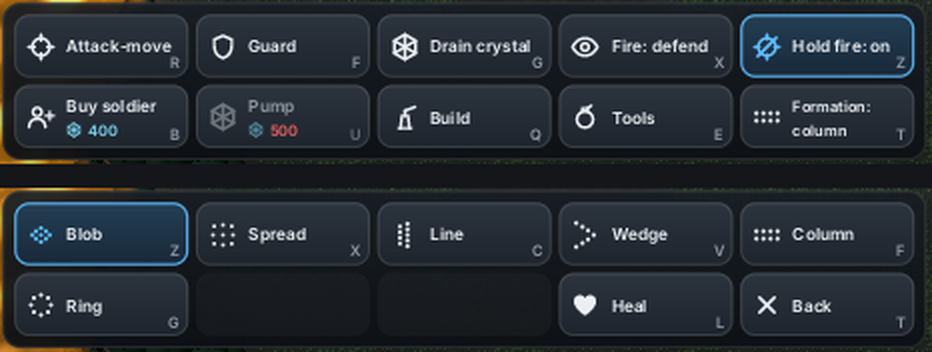
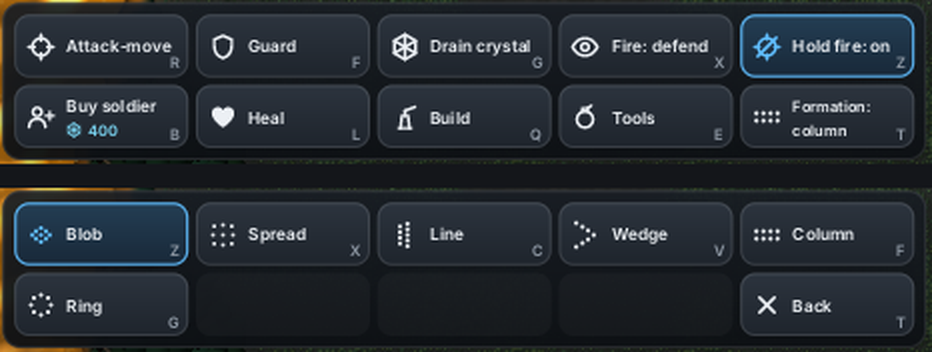
Squad: Heal back on the main card in Pump's slot (Pump on the Build page)
Scott 06:14Z: "heal is in formation?" Heal takes Pump's (1, 1) in the
squad mode; Pump stays one key away on the Build page (Q, U). The
Formation page holds only formations and Back.

Claude-Session: https://claude.ai/code/session_01TFcbG7BwQKEVXj5ZSmFTzB

Changed region(s): [[0.5912, 0.75, 0.809, 0.9688], [0.2178, 0.2812, 0.3423, 0.4062], [0.3734, 0.375, 0.4045, 0.4062]]

diff --git a/src/bin/larder-world/draw.rs b/src/bin/larder-world/draw.rs
@@ -1578,6 +1578,8 @@ impl App {
                 about: "A new soldier at the larder.".into(),
                 ..Command::new(BUY, (1, 0), Icon::Recruit, "Buy a soldier", KeyCode::KeyB)
             },
+            // Pump's main-card slot is Heal's in the squad mode (below,
+            // 2026-11-21); there Pump is on the Build page only.
             pump((1, 1)),
             Command { about: "Turrets, pumps, walls, lures and sirens.".into(), ..Command::new(BUILD_PAGE, at((1, 3), (1, 2)), Icon::Turret, "Build", KeyCode::KeyQ) },
             Command {
@@ -1588,9 +1590,14 @@ impl App {
         // The squad mode's Hold fire and Formation (owner 2026-11-21
         // 05:04Z). Hold fire takes Heal's (0, 4), beside the fire button;
         // Formation takes the Lookouts' (1, 4), which went with the
-        // lookouts, and opens the Formation page, where Heal now is (its
-        // L still heals from this page, `squadmode::HEAL_KEY`).
+        // lookouts, and opens the Formation page.
         if squads {
+            // Heal back on the main card in Pump's (1, 1); Pump stays on the
+            // Build page (Q, then U). A night on the Formation page read as
+            // an odd fit (owner 06:14Z: "heal is in formation?").
+            cmds.retain(|c| c.id != PUMP);
+            let heal_off = g.active.map_or(no_sel(), |a| super::squadmode::heal_off(g, a));
+            cmds.push(Command { ready: heal_off.is_none(), why_not: heal_off, about: "The squad stops where it is and heals, paying food from the bank: fast by a crystal you hold, slow elsewhere. Any order ends it.".into(), ..Command::new(HEAL_ORDER, (1, 1), Icon::Heart, "Heal", super::squadmode::HEAL_KEY) });
             cmds.push(Command {
                 ready: any,
                 on: held,
@@ -1602,7 +1609,7 @@ impl App {
             cmds.push(Command {
                 ready: f.is_some(),
                 why_not: no_sel(),
-                about: format!("How the squad stands and walks: blob, spread, line, wedge, column or ring (now {}). Opens the formation page; Heal is there too.", f.map_or("none", |f| f.name())),
+                about: format!("How the squad stands and walks: blob, spread, line, wedge, column or ring (now {}). Opens the formation page.", f.map_or("none", |f| f.name())),
                 ..Command::new(FORM_PAGE, (1, 4), f.map_or(Icon::Formation, form_icon), &f.map_or("Formation".to_string(), |f| format!("Formation: {}", f.name())), super::squadmode::FORMATION)
             });
         }
@@ -1636,7 +1643,6 @@ impl App {
         }
         if self.form_page && squads {
             let now = g.active.map(|a| g.squads[a].formation);
-            let heal_off = g.active.map_or(no_sel(), |a| super::squadmode::heal_off(g, a));
             let form = |id: u32, slot: (u8, u8), key: KeyCode, about: &str| {
                 let f = super::form_of(id).unwrap_or_default();
                 let mut name = f.name().to_string();
@@ -1650,7 +1656,6 @@ impl App {
                 form(F_WEDGE, (0, 3), KeyCode::KeyV, "A V with its point toward the cursor: a narrow front that pushes into the mould with guns down both sides."),
                 form(F_COLUMN, (0, 4), KeyCode::KeyF, "Two abreast, front to back, facing where it walks: files through doors, bridges and gaps between rocks without bunching."),
                 form(F_RING, (1, 0), KeyCode::KeyG, "A circle facing out, for holding ground with mould on every side."),
-                Command { ready: heal_off.is_none(), why_not: heal_off, about: "The squad stops where it is and heals, paying food from the bank: fast by a crystal you hold, slow elsewhere. Any order ends it. L heals from the main page too.".into(), ..Command::new(HEAL_ORDER, (1, 3), Icon::Heart, "Heal", super::squadmode::HEAL_KEY) },
                 Command { about: "Back to the squad's commands.".into(), ..Command::new(F_BACK, (1, 4), Icon::Close, "Back", super::squadmode::FORMATION) },
             ];
         }

diff --git a/src/bin/larder-world/squadmode.rs b/src/bin/larder-world/squadmode.rs
@@ -86,8 +86,9 @@ pub(super) const FORMATION: KeyCode = KeyCode::KeyT;
 pub(super) const CYCLE: KeyCode = KeyCode::Backquote;
 /// The card's Heal (Card 2, 2026-11-15 19:38Z; it was the squad panel's).
 /// Heal: owner 2026-11-15 07:41Z, "Healing should be a specific action".
-/// Since 2026-11-21 it sits on the Formation page, and L still heals from
-/// the main page (`App::squad_key`). On the build page L is the lure's, as
+/// Since 2026-11-21 it has Pump's slot on the main card (Pump is on the
+/// Build page), and L heals from the other pages too (`App::squad_key`),
+/// bar the build page, where L is the lure's, as
 /// every card key is that page's there. (The card's Lookouts, I, went
 /// 2026-11-21 with the lookouts.)
 pub(super) const HEAL_KEY: KeyCode = KeyCode::KeyL;
@@ -132,7 +133,7 @@ pub(super) fn squad_help() -> Vec<(String, String)> {
         ("Shift + drag".into(), "Pull the soldiers in the box out into a new squad".into()),
         (k(MERGE), "Combine: a squad overlapping yours joins it".into()),
         ("Ctrl + 1-9".into(), "Link that squad with yours while they touch (again: unlink); a link is commanded as one".into()),
-        (k(HEAL_KEY), "Heal: the squad stops and heals for food, fast by a crystal you hold (on the formation page)".into()),
+        (k(HEAL_KEY), "Heal: the squad stops and heals for food, fast by a crystal you hold (on the card)".into()),
         ("Z".into(), "Hold fire: on and off; the fire button (X) picks defend or free fire".into()),
         ("Click a building".into(), "With no squad commanded: select it (its health and state; cancel, demolish, upgrade, switch)".into()),
         (k(FORMATION), "Formation page: blob, spread, line, wedge, column, ring (on the card)".into()),

diff --git a/src/bin/larder-world/tests.rs b/src/bin/larder-world/tests.rs
@@ -672,6 +672,9 @@ fn the_squad_modes_keys_do_what_the_card_says() {
     assert_eq!(key_of("Fire: defend"), Some(KeyCode::KeyX));
     assert_eq!(key_of("Hold fire"), Some(KeyCode::KeyZ));
     assert_eq!(key_of("Formation: blob"), Some(KeyCode::KeyT));
+    // Heal has Pump's slot; Pump is on the Build page.
+    assert_eq!(key_of("Heal"), Some(KeyCode::KeyL));
+    assert!(m.commands.iter().all(|c| c.id != PUMP));
     assert!(m.help_base.as_ref().is_some_and(|h| h.iter().any(|r| r.1.starts_with("Split"))), "F1 lists the squad's keys");
     // G is the card's: it aims a drain, and merges nothing.
     assert!(!app.squad_key(KeyCode::KeyG, true, false, false));
@@ -729,7 +732,7 @@ fn hold_fire_toggles_apart_from_the_fire_mode_and_the_formation_page_picks() {
     // The Formation page: its buttons, the current one lit, a pick closes it.
     app.hud_event(HudEvent::Command { id: FORM_PAGE }).unwrap();
     let m = app.model(None, None);
-    for id in [F_BLOB, F_SPREAD, F_LINE, F_WEDGE, F_COLUMN, F_RING, HEAL_ORDER, F_BACK] {
+    for id in [F_BLOB, F_SPREAD, F_LINE, F_WEDGE, F_COLUMN, F_RING, F_BACK] {
         assert!(m.commands.iter().any(|c| c.id == id), "the page has {id}");
     }
     assert!(m.commands.iter().any(|c| c.id == F_BLOB && c.on));

diff --git a/wiki/decisions-game.md b/wiki/decisions-game.md
@@ -60,7 +60,7 @@ live only in [NOW.md](../NOW.md), *What waits on the owner* (since
 
 | When | Decision | Owner's words | Pages |
 |---|---|---|---|
-| 2026-11-21 05:04 | Squad control: the lookouts (a share of a draining or building squad standing guard, with its workers at half fire) are removed, so every member works and fires at full rate; a Formation button on the command card opens a page of six formations (blob, spread, line, wedge, column, ring; Heal moved there); Hold fire is its own toggle beside a fire button that picks defend or free fire | "remove the feature that some solider guard while harvesting. add a formations button to the hud with good formation options. hold fire should be a seperate button from defend vs free fire." | [squad mode](world/squad-mode.md) |
+| 2026-11-21 05:04 | Squad control: the lookouts (a share of a draining or building squad standing guard, with its workers at half fire) are removed, so every member works and fires at full rate; a Formation button on the command card opens a page of six formations (blob, spread, line, wedge, column, ring; Heal takes Pump's main-card slot, Pump stays on the Build page); Hold fire is its own toggle beside a fire button that picks defend or free fire | "remove the feature that some solider guard while harvesting. add a formations button to the hud with good formation options. hold fire should be a seperate button from defend vs free fire." | [squad mode](world/squad-mode.md) |
 | 2026-11-21 00:49 | Doors are placed with one click on a wall, not drawn: a door three wall widths long, centred on the click and cut at once (`Game::door_from_click`); a click off every wall places nothing. Drawing a door across a gap went with the drag | "Also doors should be created with just a click, not dragging" | [maps](world/maps.md) |
 | 2026-11-21 00:49 | Slime must not pass a wall it has not worn through: a step, a birth or a spore's flight that would cross any standing wall cell stops there and bites it (`solid_walls`, GPU engine, on by default; the CPU dish keeps the old rule) | "Sometimes slime is able to get through my walls even when they have no burrowed a full hole yet. Review." | [maps](world/maps.md) |
 | 2026-11-20 23:32 | Planet 1 is saved from the late threats and **each planet brings something new**: the strikers wait for planet 2, the waves and the late lunge for planet 3, the last-stand heart for planet 4 (mini-bosses from planet 2, the Pinwheel from 3 and the slime's mortar from 4, as before). Every rule stays on in the game, gated by planet (`run::FIRST_PLANET`); planet 1 keeps fruiting, the heartbeat, starfall and cores. Schedule by the thread "Pace threats across the planets", agreed by Direction | "We don't need all these mini-bosses, strikers, etc. in planet one. We should save some thing for later planets. Also holy fuck did it get harder I just played again and had a really good map and was playing really well and the strikers still fucked my shit up (on planet 1)" | [run](world/run.md) |

diff --git a/wiki/world/squad-mode.md b/wiki/world/squad-mode.md
@@ -100,9 +100,10 @@ is still to come. A walking map serves any goal within `MAP_NEAR` 12 dish cells 
   Shift queues up to six.
 - **Formations** (the card's Formation button, T, opens its page; owner
   2026-11-21 05:04Z): blob (default), spread (the blob at 1.9 times its room,
-  `SPREAD`), line, wedge, column (two abreast, facing where it walks, as wide
-  as a pair to the funnel, so it files through doors without funnelling) and
-  ring (`Formation`, `Game::rank_squad`). The page holds Heal too.
+  `SPREAD`), line, wedge, column (two abreast, facing where it walks; moving, it
+  always walks as the funnel's column two abreast, so it files through doors
+  and round rock) and
+  ring (`Formation`, `Game::rank_squad`).
 - **No lookouts** (owner 2026-11-21 05:04Z: "remove the feature that some
   soldiers guard while harvesting"). From 2026-11-14 to 11-21 a squad
   draining or building with slime near posted a share of itself as lookouts
@@ -119,13 +120,14 @@ is still to come. A walking map serves any goal within `MAP_NEAR` 12 dish cells 
 - **The command card** is Card 2 (owner 19:38Z) as changed 2026-11-21: 5 x 2,
   Attack-move, Guard, Drain, the fire button (X: defend or free fire), Hold
   fire (Z, a toggle; a held soldier fires the button's mode once let go,
-  `App::unheld` in the window); Buy, Pump, Build, Tools, Formation. (The RTS
+  `App::unheld` in the window); Buy, Heal, Build, Tools, Formation (Pump is
+  on the Build page). (The RTS
   round keeps one fire button that cycles hold, defend and free.) The Build page (option 1, 19:53Z):
   turret, pump, wall, lure, siren, then the lures' switch and Back. With no
   squad commanded a click on a building selects it: its health, level and
   state, and its card (call off, demolish for half its price back, upgrade a
   pump, switch a lure).
-- **Healing is an order** (#330): tell a squad to heal (Heal on the Formation page, key L from any page; the
+- **Healing is an order** (#330): tell a squad to heal (Heal on the card, key L; the
   whole link). It stops, each member heals after 1 s still, paying food from the
   bank, and stops when all are whole or on any other order
   (`Game::heal`, `Cmd::Heal`). Nothing heals on its own.

diff --git a/handoff/squad-and-arsenal.md b/handoff/squad-and-arsenal.md
@@ -55,8 +55,8 @@ Lookouts removed (`cover.rs` keeps only the work's end and heal's end;
 own toggle in the squad mode (`App::squad_hold_fire`, `App::unheld` keeps
 each held soldier's mode); the fire button picks defend or free. The card's
 Formation button (T, `FORM_PAGE`) opens a page of six formations, two new
-(`Formation::Column`, `Formation::Spread`), with Heal moved there (L heals
-from any page). A column faces where it walks and counts as a pair wide to
+(`Formation::Column`, `Formation::Spread`), and Heal in Pump's main-card slot (Pump on
+the Build page). A column faces where it walks and counts as a pair wide to
 the funnel. The bot check (before/after, planets 1-3) is in the PR.
 
 **2026-11-20, pathfinding review (its own thread, the owner's ask).**
